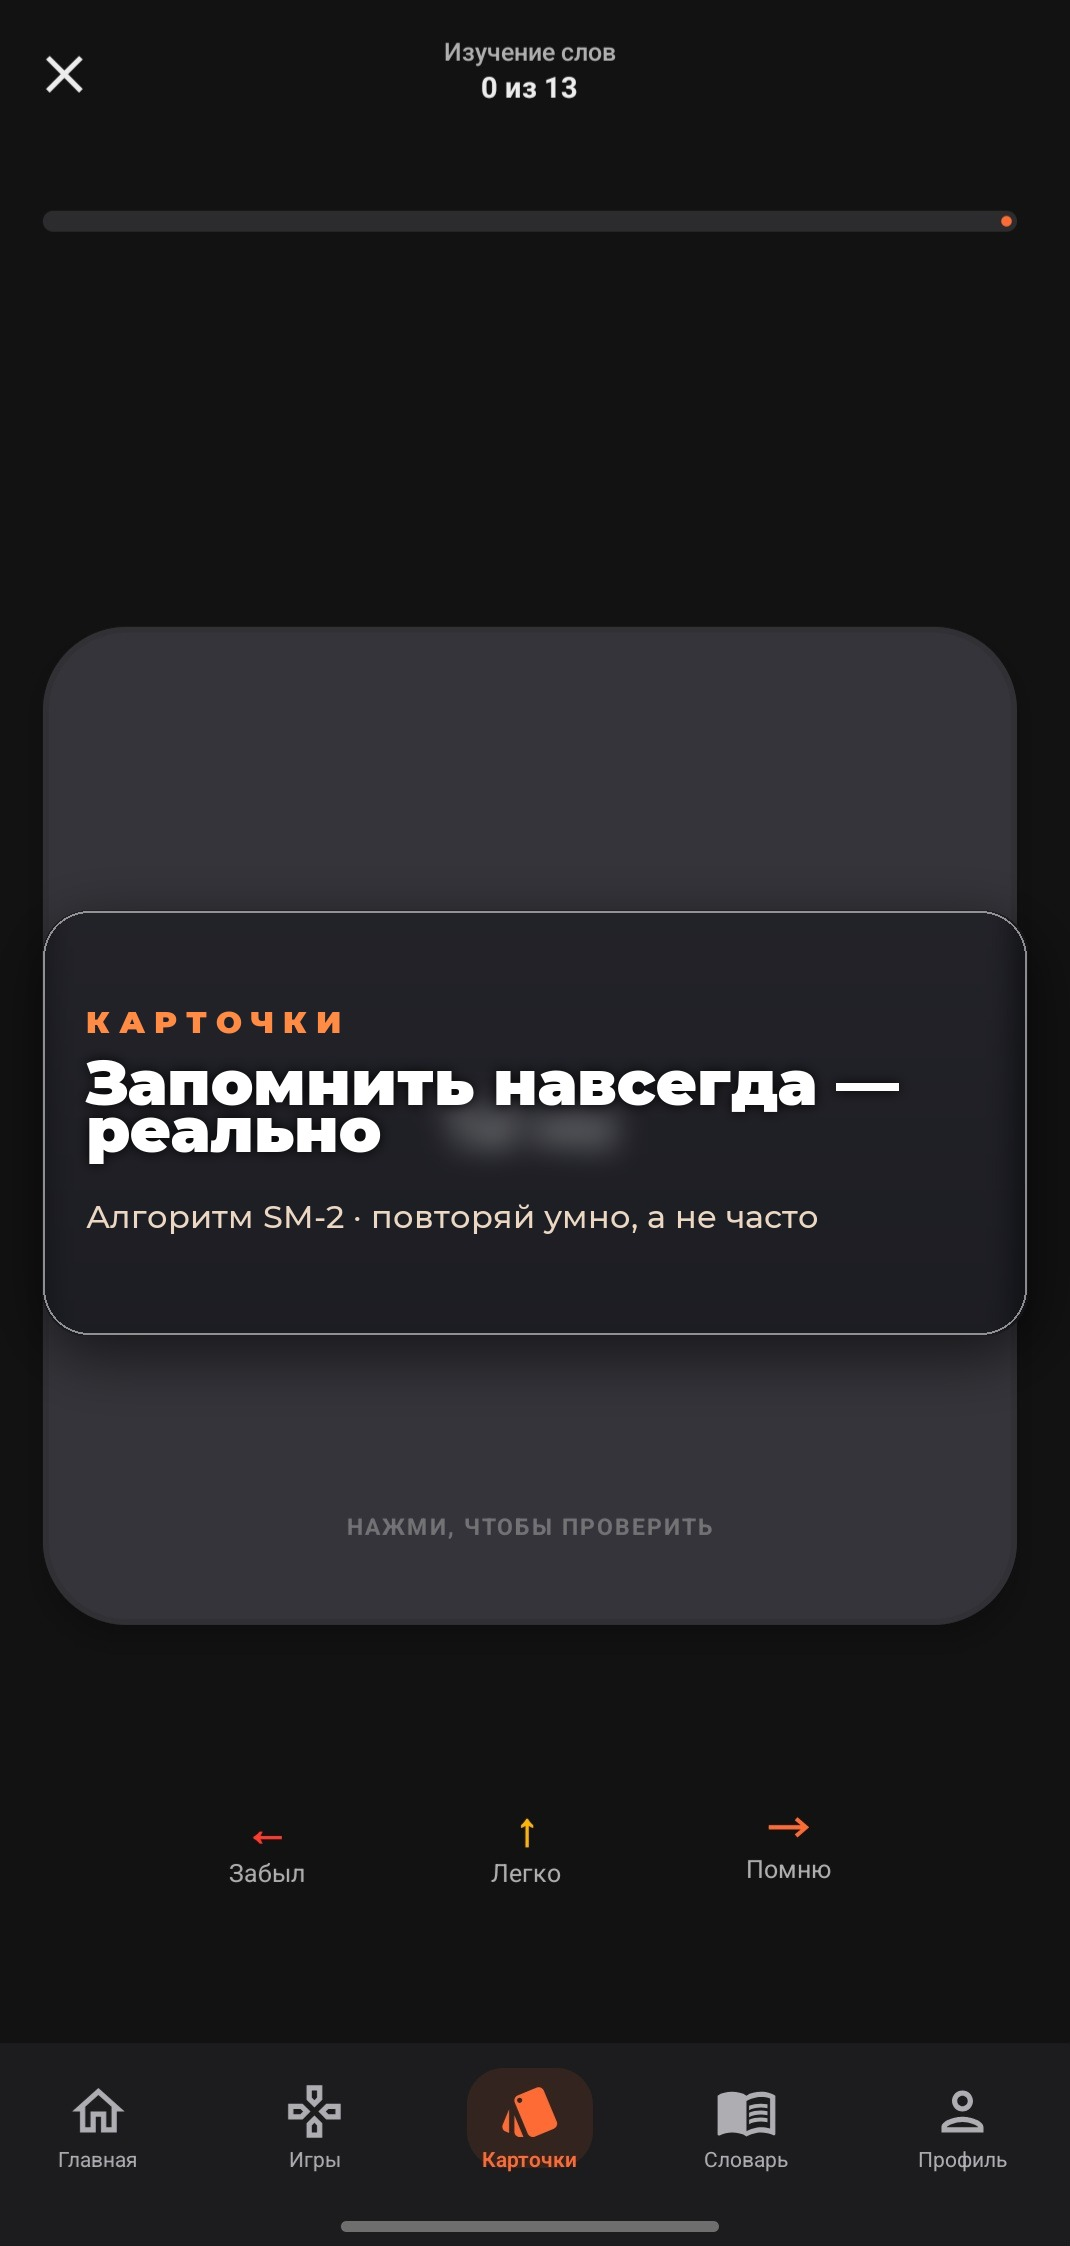
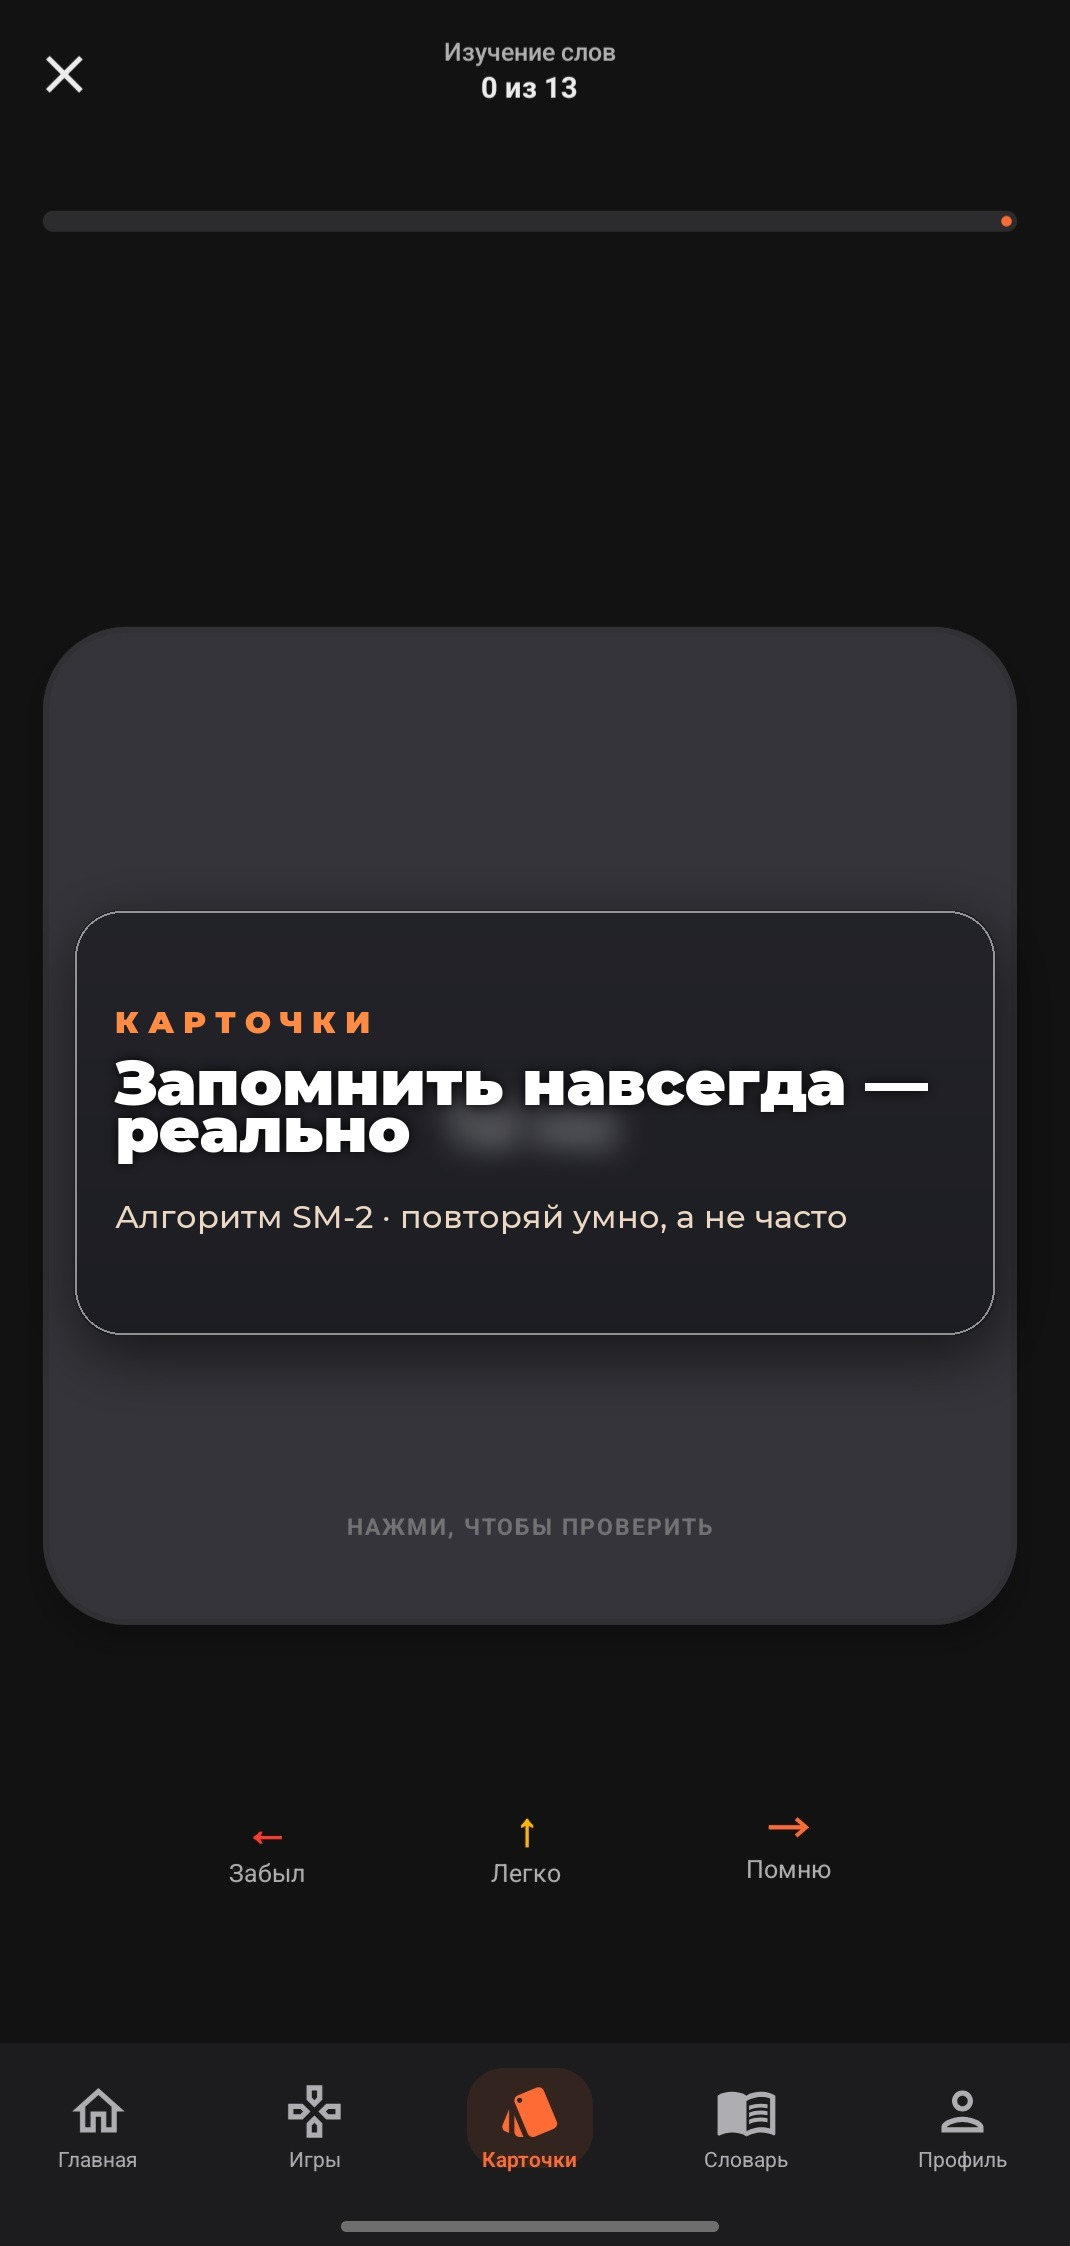
Play assets: tighter side margins (4% → 7%)
Banner side margins bumped from 4% to 7% so the card doesn't run
edge-to-edge. Font sizes preserved (still 63px / 32px) — just less
chrome around the text.

Changed region(s): [[0.0617, 0.4363, 0.8019, 0.561]]

diff --git a/docs/play_assets/_make_screenshot_banners.py b/docs/play_assets/_make_screenshot_banners.py
@@ -93,7 +93,7 @@ def add_glass_banner(img: Image.Image, eyebrow: str,
     W, H = img.size
 
     # ── Geometry: compact card — wide for big text, short so text fills it
-    margin   = int(W * 0.04)             # wide card → wide inner_w → big text
+    margin   = int(W * 0.07)             # wide card → wide inner_w → big text
     banner_w = W - margin * 2
     banner_h = int(H * 0.19)             # back to compact
     banner_x = margin
